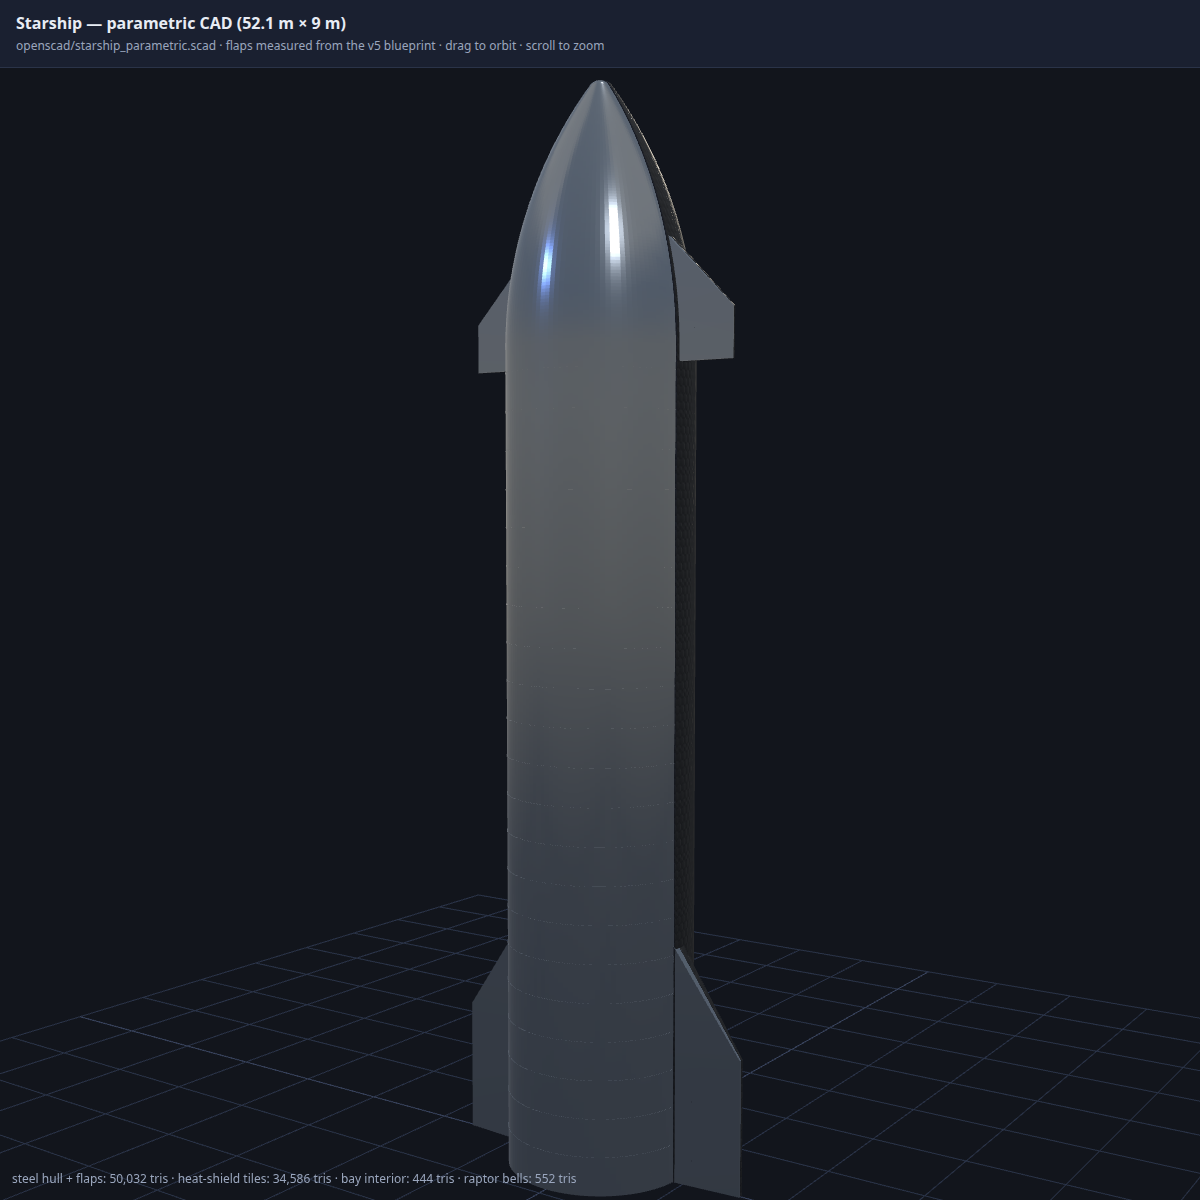
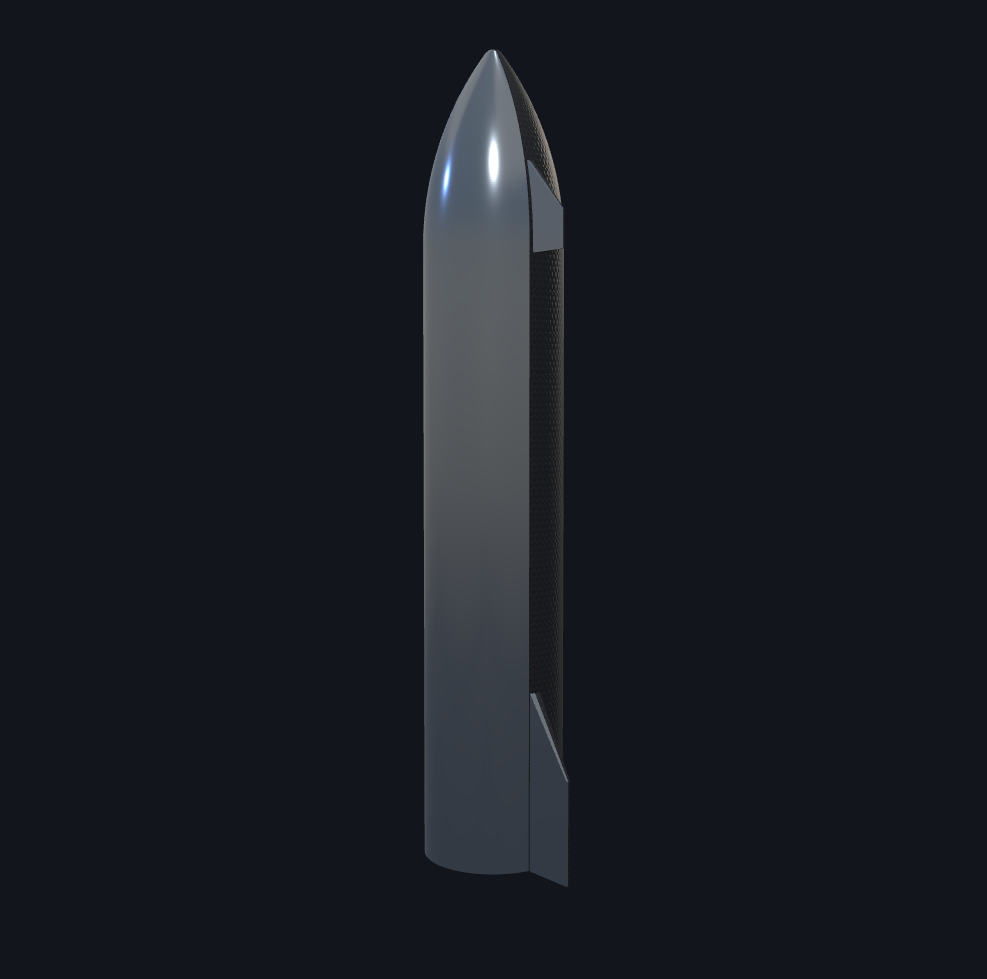
Polish the Printables listing copy, gallery, and packaging checks.
Clarify one-print-job wording and customizer vs hex files, refresh gallery
shots from the no-ring meshes, drop the QR placeholder, and tighten validation.

Changed region(s): [[0.0, 0.0, 0.6383, 1.0]]

diff --git a/scripts/validate_printables_package.py b/scripts/validate_printables_package.py
@@ -88,11 +88,12 @@ def main() -> None:
 
     desc = desc_path.read_text()
     for needle in (
-        "one single print file",
+        "one print job",
         "MMU3",
         "leedsexplore.github.io/starship-custom-name",
         "CC BY-NC",
         "260.5",
+        "does **not** currently export this embossed-hex",
     ):
         if needle.lower() not in desc.lower() and needle not in desc:
             # case-insensitive for prose hooks
@@ -119,8 +120,11 @@ def main() -> None:
     if not cover.exists():
         fail("missing cover image 01-cover.png")
     for banned in images:
-        if "blueprint" in banned.name.lower() or "2d" in banned.name.lower():
+        name = banned.name.lower()
+        if "blueprint" in name or "2d" in name:
             fail(f"do not publish blueprint/2D drawing image: {banned.name}")
+        if banned.stat().st_size < 5000:
+            fail(f"gallery image too small (placeholder?): {banned.name}")
     ok(f"{len(images)} gallery images (cover={cover.name})")
 
     shells = connected_shells(files_dir / "starship_1_200_hex_tiles_one_piece.stl")

diff --git a/printables/starship-parametric/DESCRIPTION.md b/printables/starship-parametric/DESCRIPTION.md
@@ -1,22 +1,20 @@
 # SpaceX Starship 1:200 — embossed hex-tile heat shield
 
-**One single print file.** Hull, forward and aft flaps, engine bay, and all six Raptors in one body. No assembly. True **1:200** (H **260.5 mm**).
+**One print job — no assembly.** Hull, forward and aft flaps, engine bay, and all six Raptors in a single nose-up print. True **1:200** (H **260.5 mm**).
 
 This listing is the **embossed hex-tile** print: real grooves on the windward heat shield (~2.8 mm tiles, ~0.2 mm deep) — not a painted texture.
 
 ## Files
 
-| File | What you get |
-|------|----------------|
-| `starship_1_200_hex_tiles_one_piece.stl` | Full ship, one body, embossed hex heat shield — print in one filament |
-| `starship_1_200_hex_tiles_mmu.3mf` | Same ship as two MMU3 bodies: stainless hull + black heat shield / windward flap faces / Raptors |
-| `starship_parametric.scad` | OpenSCAD source (smooth shell in CAD; hex relief is generated in the build pipeline) |
+- `starship_1_200_hex_tiles_one_piece.stl` — full ship, embossed hex heat shield, one filament
+- `starship_1_200_hex_tiles_mmu.3mf` — same ship as two MMU3 bodies: stainless hull + black heat shield / windward flap faces / Raptors
+- `starship_parametric.scad` — OpenSCAD source (smooth shell in CAD; hex relief is generated in the build pipeline)
 
-**Want a name on the hull, or your own colors?** Use the free web customizer — it exports your STL/3MF directly (no sample file needed here):
+**Want a custom name on the hull?** Use the free web customizer:
 
 **[leedsexplore.github.io/starship-custom-name](https://leedsexplore.github.io/starship-custom-name/)**
 
-On Original CAD, type a name and download. For embossed hex heat-shield files without a custom name, use the STLs above.
+The customizer puts a name on the **smooth** Original CAD (or classic remix) and exports your STL/3MF. It does **not** currently export this embossed-hex listing — grab the hex files here when you want the grooved heat shield without a name.
 
 ## Printing
 
